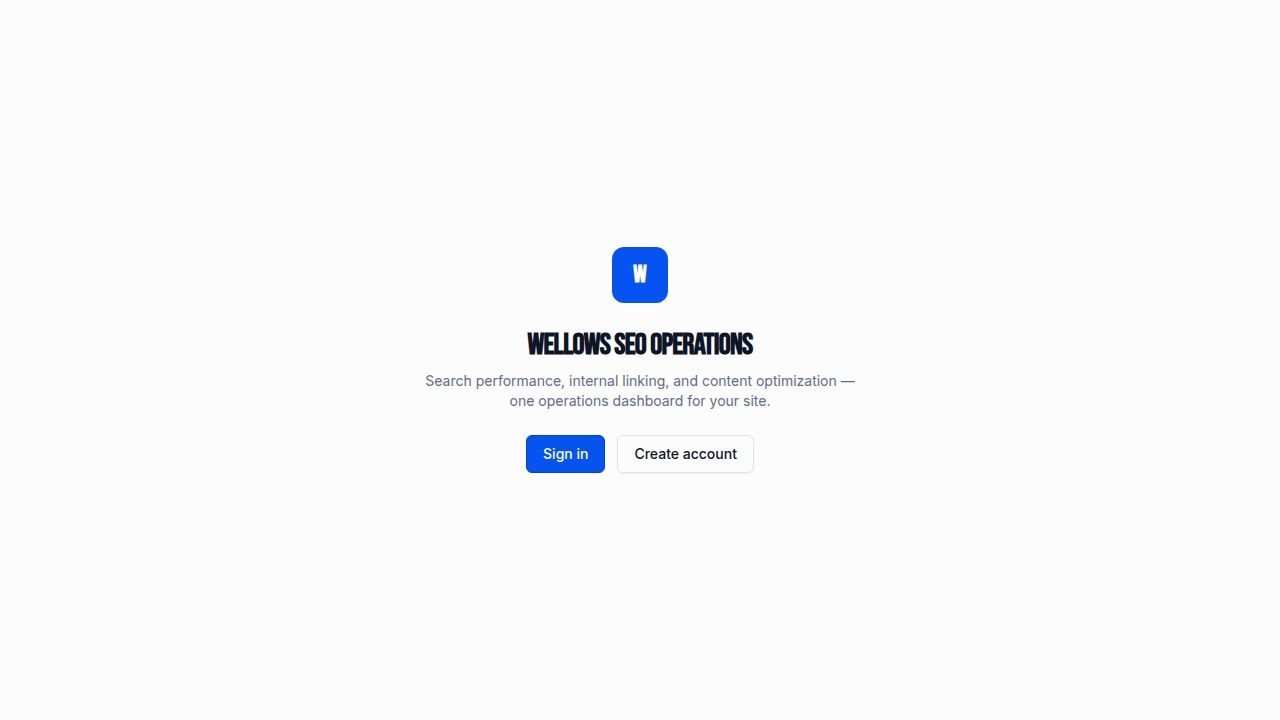
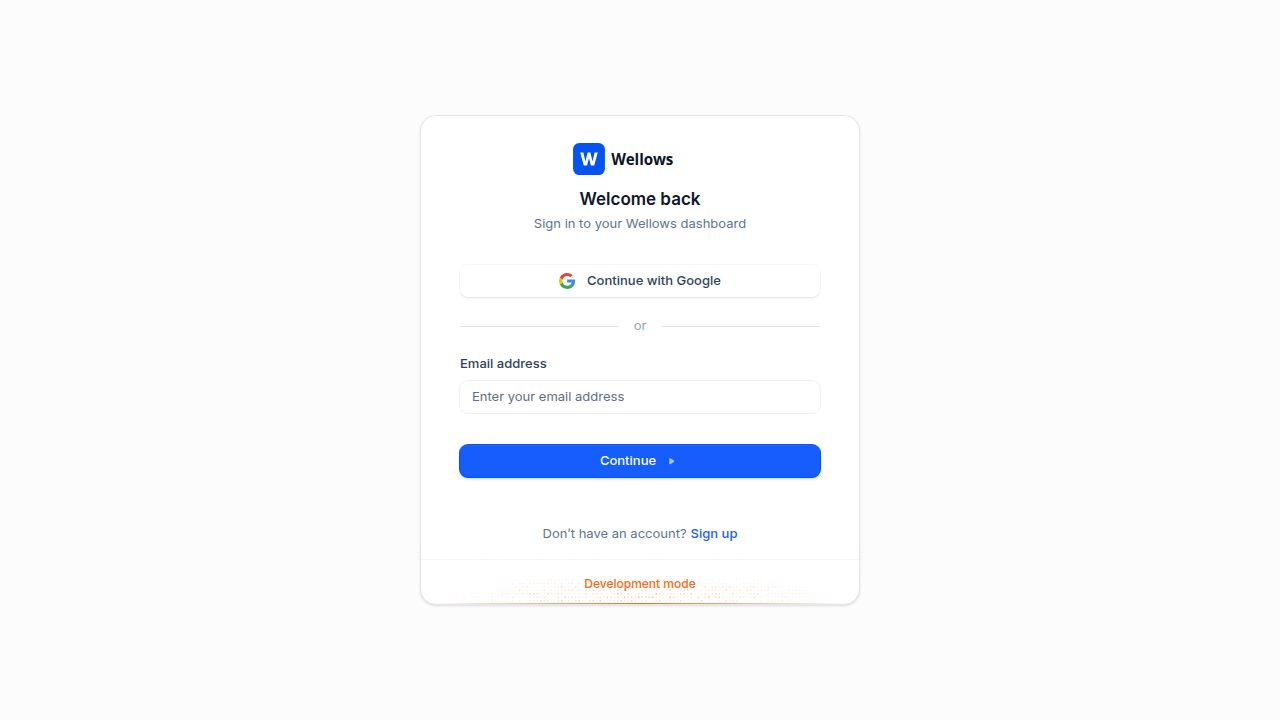
Send visitors back to the page they wanted after signing in (Task #50)
- artifacts/dashboard/src/App.tsx: added RedirectToSignIn component used by
  ProtectedRoute and HomeRedirect signed-out branches. It redirects to
  /sign-in?redirect_url=<encoded basePath+path+search>; Clerk's <SignIn>
  reads redirect_url and navigates there after auth (via routerPush →
  stripBase, hence basePath is included in the stored destination).
- Plain "/" visits (no query string) still redirect to /sign-in with no
  param, preserving today's behavior.
- Verified: typecheck passes (initial admin.tsx errors were stale lib
  declarations, fixed by typecheck:libs). E2E test (Clerk programmatic
  auth) confirmed: signed-out /link-map → /sign-in?redirect_url=%2Flink-map,
  and a signed-in visit to that URL lands on /link-map.
- Follow-up proposed: verify sign-up path also honors redirect_url (#52).

Replit-Task-Id: 4f44c266-6388-480c-825a-328117588c55

diff --git a/artifacts/dashboard/src/App.tsx b/artifacts/dashboard/src/App.tsx
@@ -217,6 +217,29 @@ function SiteGate({ children }: { children: React.ReactNode }) {
   );
 }
 
+/**
+ * Signed-out redirect that remembers the originally requested page.
+ * The destination is passed to /sign-in via the `redirect_url` query param,
+ * which Clerk's <SignIn> reads and navigates to after authentication
+ * (through routerPush → stripBase, so we include the base path here).
+ * Plain "/" visits go to /sign-in with no param, preserving today's behavior.
+ */
+function RedirectToSignIn() {
+  const [location] = useLocation();
+  const search = window.location.search;
+  const dest = `${basePath}${location}${search}`;
+  const isPlainHome = location === "/" && !search;
+  return (
+    <Redirect
+      to={
+        isPlainHome
+          ? "/sign-in"
+          : `/sign-in?redirect_url=${encodeURIComponent(dest)}`
+      }
+    />
+  );
+}
+
 function ProtectedRoute({
   component: Component,
 }: {
@@ -234,7 +257,7 @@ function ProtectedRoute({
         </SiteProvider>
       </Show>
       <Show when="signed-out">
-        <Redirect to="/sign-in" />
+        <RedirectToSignIn />
       </Show>
     </>
   );
@@ -247,7 +270,7 @@ function HomeRedirect() {
         <ProtectedRoute component={Dashboard} />
       </Show>
       <Show when="signed-out">
-        <Redirect to="/sign-in" />
+        <RedirectToSignIn />
       </Show>
     </>
   );